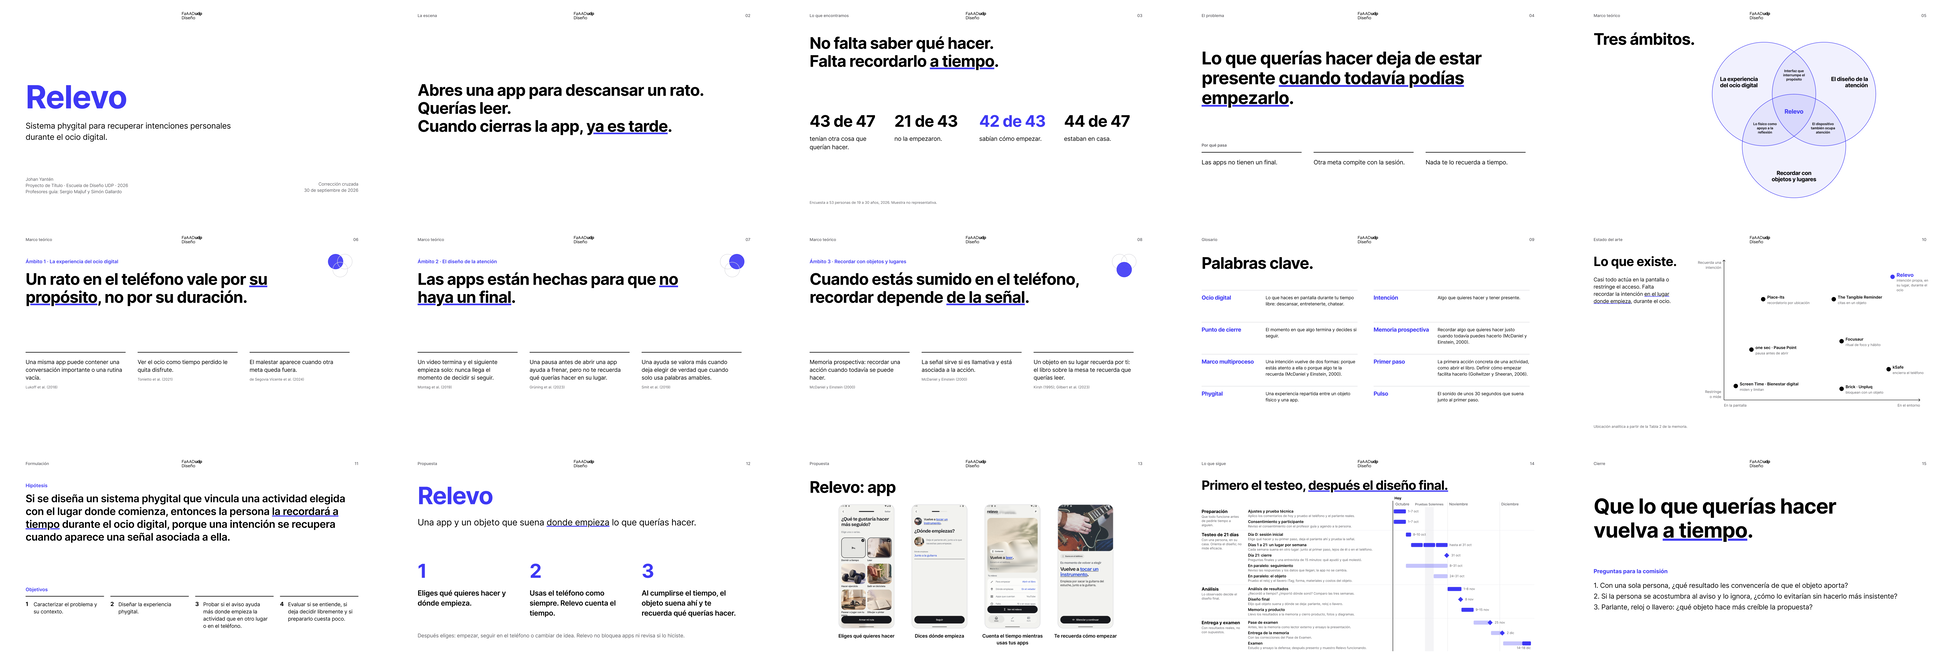
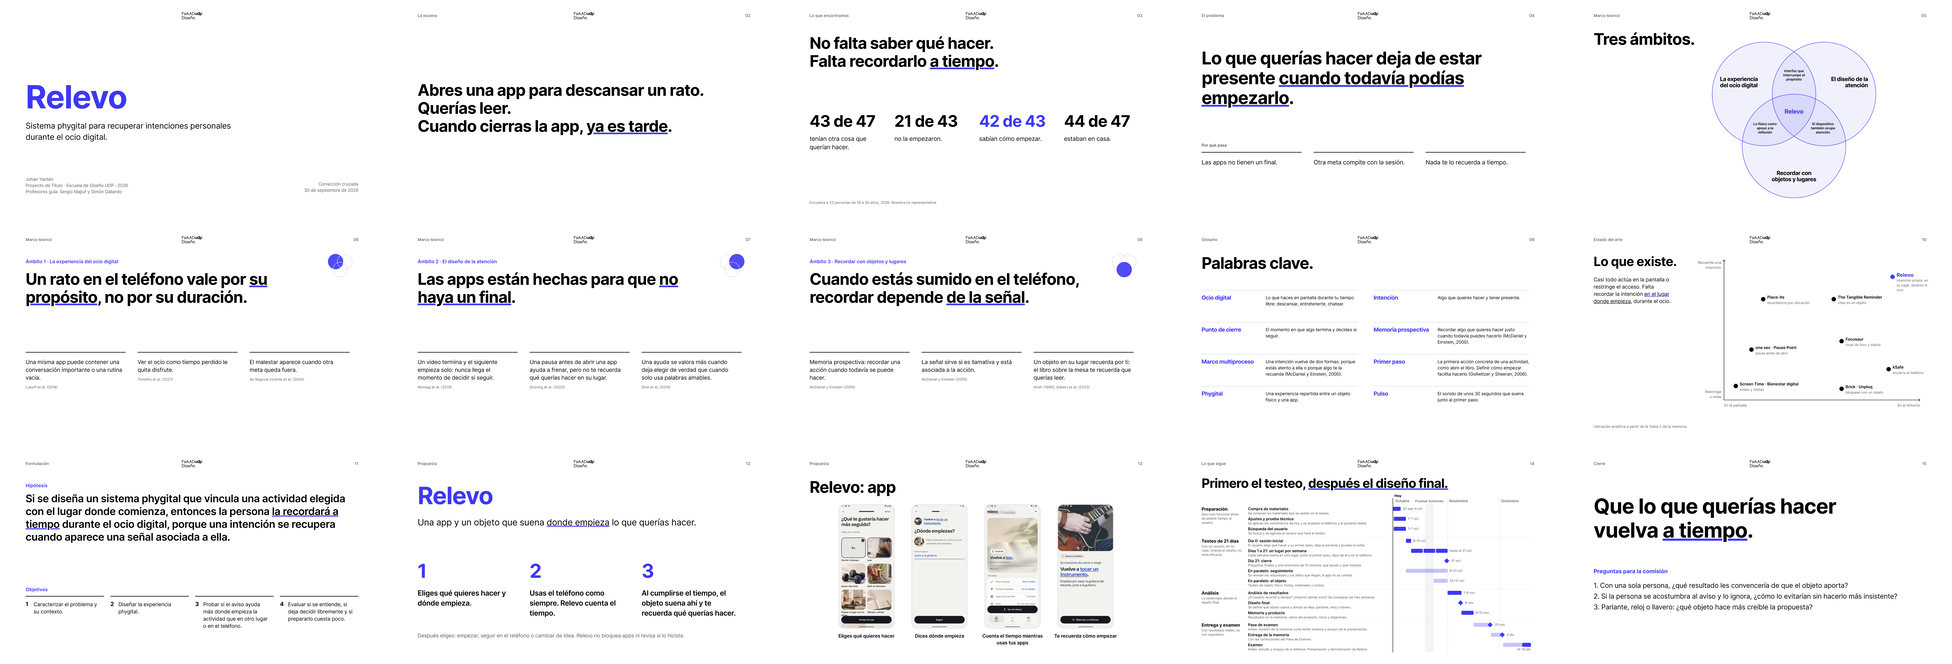
Diapositiva 14 en tercera persona y con la compra de materiales
- Los textos de la carta Gantt pasan a tercera persona («El usuario
  elige…», «Se aplican…»).
- Se suma la compra de los materiales del testeo (30 de septiembre al
  4 de octubre) y se quita la revisión del consentimiento.
- El objeto en paralelo usa las palabras del autor: «Testeo de objeto
  físico; forma, materiales y costos».
- Imagen, hoja de contacto, documento 24, registro de pedidos y
  trazabilidad al día.

Changed region(s): [[0.5938, 0.7229, 0.75, 0.994], [0.75, 0.9036, 0.7812, 0.9639]]

diff --git a/00_gobernanza/trazabilidad-uso-ia-2026-09-23.md b/00_gobernanza/trazabilidad-uso-ia-2026-09-23.md
@@ -25,7 +25,7 @@ Esta formulación se apoya en la [declaración histórica de IA de la memoria v1
 | GIF de la app 2.10 del 27 de septiembre | Claude Code respaldó los datos del autor en el emulador, preparó sin red un relevo ficticio («Leer 10 páginas»), grabó la pantalla con adb, unió dos tomas con ffmpeg, restauró los datos y documentó. | El autor pidió el GIF para la diapositiva «Cómo funciona». | Es una recreación en emulador: la señal viene de un relevo de prueba de 15 s y suena en el teléfono porque no hay parlante. |
 | Android 2.11 del 28 de septiembre | Claude Code revisó el registro y el envío de datos de la 2.10 y la base de Supabase; encontró que las respuestas nunca habían llegado a la base. Programó «Cómo funciona», adaptó el video a vertical, agregó la copia en el teléfono y dos columnas, aplicó en Supabase la migración y las vistas de análisis, probó en emulador con conexión y sin ella, borró los datos de prueba y documentó. | El autor pidió revisar la app, dejarla lista para el primer testeo, explicar su uso la primera vez, incluir el video en vertical y guardar todo en la base y en el teléfono. Registrado como D-086; los textos, el formato de la copia y las vistas son propuestas de la herramienta. | Sin teléfono real, parlante Bluetooth ni personas. |
 | Objetos que suenan y Android 2.15, 29 de septiembre | Claude Code investigó objetos baratos en Chile que Relevo pudiera hacer sonar: el llavero iTag, la placa ESP32 y el reloj con Wear Engine. Verificó en el código de una app Android de código abierto cómo se hace sonar el iTag. Implementó la salida experimental «El reloj», que envía el tono como audio de llamada, con una prueba unitaria y la migración de Supabase. | El autor propuso usar la forma ya fabricada de su reloj como objeto y pidió probar el sonido como llamada. También pidió descargar y revisar el APK oficial del iTag; se prefirió código abierto verificable antes que un APK de un sitio espejo (D-093). | No se probó con el reloj ni con un iTag reales. |
-| Presentación completa y encuesta, 29 de septiembre | Claude Code revisó las presentaciones del examen de julio de otros estudiantes, creó un archivo nuevo de Figma Slides y diseñó 18 diapositivas con diagramas (árbol de problemas, Venn, marco multiproceso, mapa de referentes, sistema, línea de la prueba y carta Gantt), gráficos de la encuesta, capturas de la app y notas del orador. Analizó la encuesta de 53 respuestas con recuentos y una codificación verificada por script, la documentó y la incorporó a la memoria. Después corrigió los textos según las notas del autor, recuperó el mapa de referentes, agregó las intersecciones del Venn, aplicó los títulos simples de los ámbitos, exportó las 15 diapositivas principales y documentó el proceso en el [documento 24](../10_recursos_visuales/24_presentacion-correccion-cruzada-2026-09-30.md). Por último, rehízo la diapositiva 14 como carta Gantt de lo que sigue hasta el examen, con las fechas del plan de cierre. | El autor pidió «la presentación lo más completa posible, no solo texto» y usar la encuesta en la memoria. Ante dudas sobre el origen, confirmó que las respuestas son reales pero editadas y que el formulario informaba el uso académico anónimo (D-092). Después pidió simplificar a 5 minutos, «al nivel de las keynote de Apple», con resultados en vez de métodos, un detalle de cada ámbito, un glosario y capturas del producto; Claude Code dejó 14 diapositivas principales y movió el detalle a una sección de respaldo. Luego el autor editó el archivo a mano, dejó notas dentro de los textos y pidió corregirlas, recuperar el mapa comparativo con el mercado, agregar las intersecciones del Venn con los títulos de la memoria y de su examen de julio, y títulos más simples para los ámbitos (D-094). Al final pidió cambiar «Siguiente paso» por lo que sigue en las próximas semanas y meses, «bien explicado y con sentido», y ordenarlo con el formato de la carta Gantt del respaldo; después, textos más claros y el detalle de cada tarea. | La codificación de la encuesta y las notas del orador no se revisaron con el autor. La fecha y la convocatoria de la encuesta no están registradas. La presentación no se ha ensayado. |
+| Presentación completa y encuesta, 29 de septiembre | Claude Code revisó las presentaciones del examen de julio de otros estudiantes, creó un archivo nuevo de Figma Slides y diseñó 18 diapositivas con diagramas (árbol de problemas, Venn, marco multiproceso, mapa de referentes, sistema, línea de la prueba y carta Gantt), gráficos de la encuesta, capturas de la app y notas del orador. Analizó la encuesta de 53 respuestas con recuentos y una codificación verificada por script, la documentó y la incorporó a la memoria. Después corrigió los textos según las notas del autor, recuperó el mapa de referentes, agregó las intersecciones del Venn, aplicó los títulos simples de los ámbitos, exportó las 15 diapositivas principales y documentó el proceso en el [documento 24](../10_recursos_visuales/24_presentacion-correccion-cruzada-2026-09-30.md). Por último, rehízo la diapositiva 14 como carta Gantt de lo que sigue hasta el examen, con las fechas del plan de cierre. | El autor pidió «la presentación lo más completa posible, no solo texto» y usar la encuesta en la memoria. Ante dudas sobre el origen, confirmó que las respuestas son reales pero editadas y que el formulario informaba el uso académico anónimo (D-092). Después pidió simplificar a 5 minutos, «al nivel de las keynote de Apple», con resultados en vez de métodos, un detalle de cada ámbito, un glosario y capturas del producto; Claude Code dejó 14 diapositivas principales y movió el detalle a una sección de respaldo. Luego el autor editó el archivo a mano, dejó notas dentro de los textos y pidió corregirlas, recuperar el mapa comparativo con el mercado, agregar las intersecciones del Venn con los títulos de la memoria y de su examen de julio, y títulos más simples para los ámbitos (D-094). Al final pidió cambiar «Siguiente paso» por lo que sigue en las próximas semanas y meses, «bien explicado y con sentido», y ordenarlo con el formato de la carta Gantt del respaldo; después, textos más claros y en tercera persona, el detalle de cada tarea, la compra de materiales de esta semana y sin la revisión del consentimiento. | La codificación de la encuesta y las notas del orador no se revisaron con el autor. La fecha y la convocatoria de la encuesta no están registradas. La presentación no se ha ensayado. |
 | Diapositivas e hipótesis, 29 de septiembre | Claude Code diseñó en Figma las diapositivas de la corrección cruzada en dos variantes y las rehízo con el estilo del autor. Después leyó la memoria, las decisiones y el protocolo 02, propuso tres hipótesis y actualizó la elegida en todo el proyecto. | El autor pidió su estilo de diseño y una hipótesis más simple, que dijera en qué se basa la app y no su resultado: «La hipótesis no debe ser el resultado de la app, debe ser en lo que la app se basa». Eligió primero una versión en dos frases; luego señaló que «eso no es una hipótesis», pidió mirar las anteriores y eligió una formulación «si…, entonces…». Después aportó las presentaciones del examen de julio y pidió revisar los encargos; con esas reglas eligió una versión «si se diseña…, entonces…, porque…», que luego pidió simplificar y hacer teórica: «que la hipótesis no responda a lo que hace el proyecto, sino a lo teórico». Con el feedback del pase y del examen de julio eligió una versión teórica; luego pidió revisar si el marco exige el lugar y aprobó un «porque» basado en la memoria prospectiva y el marco multiproceso de McDaniel y Einstein (2000), que Claude Code incorporó a la memoria junto con una revisión completa del texto, los datos del prototipo y las citas APA 7 en español (D-091). | La hipótesis sigue sin contrastarse. Las notas del orador de las diapositivas no se revisaron con el autor. |
 | Android 2.14 y registro de pedidos, 29 de septiembre | Claude Code reescribió las frases poco naturales, agrandó el video, rehízo la guía con contexto y el primer relevo acompañado, corrigió el defecto de la 2.10, probó en emulador y creó el registro de pedidos del autor. | El autor pidió frases más naturales, un video más grande, una guía con contexto que deje hacer el primer relevo, la app lista para el testeo real y la auditoría de sus pedidos. Registrado como D-090. | Sin teléfono real ni personas. |
 | Android 2.13 y coherencia con la memoria, 29 de septiembre | Claude Code leyó la memoria (secciones 6, 7, 9, 10 y 11) y el corpus P1–P8; señaló dos contradicciones (el nombre en la base y el aviso semanal encendido) y preguntó al autor; programó la guía, los intereses de las entrevistas, la tabla aparte del nombre, el resumen del relevo activo y el registro de la guía; rehízo el audio del video; probó en emulador y escribió la revisión de coherencia. | El autor pidió actividades concretas, guardar el nombre, una guía de cada cosa, revisar el audio, un resumen en Inicio y avisarle de toda contradicción con la memoria. Decidió guardar el nombre y preguntar por el aviso semanal. Registrado como D-088 y D-089. | Sin teléfono real ni personas; la memoria aún no se actualiza. |
@@ -156,7 +156,7 @@ No introducir transcripciones identificables de P1–P8, hojas firmadas, claves 
 
 ### 2026-09-30 — Textos de la diapositiva 14
 
-- **Qué cambió:** la fila de la presentación suma el pedido de textos más claros y de un detalle por tarea en la carta Gantt.
+- **Qué cambió:** la fila de la presentación suma los pedidos de textos más claros y en tercera persona, un detalle por tarea y la compra de materiales en la carta Gantt.
 - **Cómo estaba antes:** terminaba en el formato de carta Gantt.
 - **Por qué:** mantener trazable qué hizo la IA y qué decidió el autor.
 

diff --git a/10_recursos_visuales/24_presentacion-correccion-cruzada-2026-09-30.md b/10_recursos_visuales/24_presentacion-correccion-cruzada-2026-09-30.md
@@ -24,7 +24,7 @@
 | 11 | Hipótesis y objetivos | La hipótesis literal de la memoria (D-091) y los cuatro objetivos en palabras simples. | Capítulo 10. |
 | 12 | Relevo | Qué es y tres pasos. | Capítulos 10 y 11. |
 | 13 | La app | Cuatro capturas del producto: elegir qué hacer, decir dónde empieza, el relevo que cuenta y el aviso. | Capturas de Android 2.10 y 2.13. |
-| 14 | Lo que sigue | «Primero el testeo, después el diseño final.» Carta Gantt desde hoy hasta el examen, con el formato de la del respaldo: 13 tareas con sus fechas y una línea de detalle, en cuatro etapas (preparación, testeo de 21 días, análisis, y entrega y examen), cada una con su para qué. Muestra lo que se hace en paralelo al testeo y la semana de Pruebas Solemnes. | [Plan de cierre](../00_gobernanza/plan-de-cierre-agosto-diciembre-2026.md) y [protocolo 02](../07_validacion/protocolo-02-prueba-21-dias.md). |
+| 14 | Lo que sigue | «Primero el testeo, después el diseño final.» Carta Gantt desde hoy hasta el examen, con el formato de la del respaldo: 14 tareas con sus fechas y una línea de detalle en tercera persona, en cuatro etapas (preparación, testeo de 21 días, análisis, y entrega y examen), cada una con su para qué. Muestra lo que se hace en paralelo al testeo y la semana de Pruebas Solemnes. | [Plan de cierre](../00_gobernanza/plan-de-cierre-agosto-diciembre-2026.md) y [protocolo 02](../07_validacion/protocolo-02-prueba-21-dias.md). |
 | 15 | Cierre | «Que lo que querías hacer vuelva a tiempo.» y tres preguntas a la comisión sobre los puntos débiles. | — |
 
 **Respaldo (se omite al presentar):** árbol de problemas, marco multiproceso, entrevistas, dos diapositivas de gráficos de la encuesta, criterios de diseño, versiones detalladas de hipótesis, funcionamiento y prueba, qué se registra en la prueba (la diapositiva 14 anterior), carta Gantt y referencias en APA 7. Sirven para responder preguntas.
@@ -44,7 +44,7 @@
 4. **Notas del autor.** El autor dejó comentarios dentro de los textos («*Claude por favor reescribe…»). Se reescribieron los puntos de los ámbitos 2 y 3, el glosario (con fuentes), los objetivos, los pasos de Relevo y las preguntas a la comisión. «Siguiente paso» sumó qué se registra en la prueba, y el mapa de referentes volvió al flujo principal.
 5. **Venn.** Se recuperaron las intersecciones. Tras contrastar con la memoria y con el examen de julio, los círculos usan los títulos simples del capítulo 6 (D-094) y las intersecciones son las del autor: «Interfaz que interrumpe el propósito», «Lo físico como apoyo a la reflexión» y «El dispositivo también ocupa atención».
 6. **Cambios a mano del autor, que se conservan:** «sumido en el teléfono» en el ámbito 3, «Relevo: app» en la diapositiva 13, la leyenda «Cuenta el tiempo mientras usas tus apps» y el logo de la Facultad.
-7. **Lo que sigue.** El autor pidió reemplazar «Siguiente paso», que explicaba la prueba, por lo que sigue en las próximas semanas y meses, bien explicado y con sentido. La diapositiva 14 muestra cuatro etapas con las fechas del plan de cierre y el para qué de cada una. La versión anterior quedó en el respaldo como R10. Después, el autor hizo visible la carta Gantt del respaldo (R11) y pidió la diapositiva 14 bien ordenada y desglosada con ese formato: ahora es una carta Gantt de lo que sigue, con una fila por tarea y la línea «Hoy». La R11 volvió a omitirse al presentar. Por último, el autor pidió textos más claros: la etapa es el testeo de 21 días con el usuario, hay que mostrar qué más se hace en ese tiempo y el detalle de cada tarea, y «Lugar y objeto decididos» no decía nada. Cada tarea tiene ahora una línea de detalle, y el hito del 8 de noviembre dice qué se decide: qué objeto suena y dónde se deja.
+7. **Lo que sigue.** El autor pidió reemplazar «Siguiente paso», que explicaba la prueba, por lo que sigue en las próximas semanas y meses, bien explicado y con sentido. La diapositiva 14 muestra cuatro etapas con las fechas del plan de cierre y el para qué de cada una. La versión anterior quedó en el respaldo como R10. Después, el autor hizo visible la carta Gantt del respaldo (R11) y pidió la diapositiva 14 bien ordenada y desglosada con ese formato: ahora es una carta Gantt de lo que sigue, con una fila por tarea y la línea «Hoy». La R11 volvió a omitirse al presentar. Por último, el autor pidió textos más claros: la etapa es el testeo de 21 días con el usuario, hay que mostrar qué más se hace en ese tiempo y el detalle de cada tarea, y «Lugar y objeto decididos» no decía nada. Cada tarea tiene ahora una línea de detalle, y el hito del 8 de noviembre dice qué se decide: qué objeto suena y dónde se deja. Después pidió los textos en tercera persona («El usuario elige…»), la compra de los materiales del testeo, que hace esta semana, y quitar la revisión del consentimiento. El objeto en paralelo se describe con sus palabras: «Testeo de objeto físico; forma, materiales y costos».
 
 **Herramientas.** La presentación se construyó con Claude Code mediante el conector de Figma: guiones de la API de complementos de Figma para crear formas, textos, diagramas, notas del orador y secciones, y para marcar el respaldo como omitido. Las capturas de la app se subieron desde el repositorio. Cada tanda se revisó con imágenes y con un control de que ningún elemento saliera de los márgenes.
 
@@ -55,6 +55,12 @@
 - Si se adopta el reloj o el llavero como objeto (D-093), la diapositiva 12 y el cierre deben decir cuál.
 
 ## Registro de cambios (disclaimer)
+
+### 2026-09-30 — Diapositiva 14 en tercera persona
+
+- **Qué cambió:** los textos de la carta Gantt pasan a tercera persona; se suma la compra de materiales (30 de septiembre al 4 de octubre); se quita la revisión del consentimiento; el objeto en paralelo usa las palabras del autor. Se actualizaron su imagen, la hoja de contacto, la tabla y el proceso.
+- **Cómo estaba antes:** los detalles estaban en primera persona («Aplico…», «Pruebo el reloj y el llavero…») y la preparación incluía revisar el consentimiento.
+- **Por qué:** pedido del autor.
 
 ### 2026-09-30 — Diapositiva 14: textos y detalles
 

diff --git a/00_gobernanza/registro-de-pedidos-a-la-ia.md b/00_gobernanza/registro-de-pedidos-a-la-ia.md
@@ -68,6 +68,7 @@
 | 29 sep. | Corrección | Reescribir la diapositiva «Siguiente paso», que no le convence: mostrar lo que sigue en las próximas semanas y meses, bien explicado y con sentido. | Diapositiva 14, «Probar antes de decidir.»: cuatro etapas (preparar, probar, decidir y defender) con las fechas del plan de cierre, qué se hace y para qué. La versión anterior quedó en el respaldo como R10 | — |
 | 29 sep. | Corrección | Ordenar y desglosar mejor la diapositiva 14 con el formato de la carta Gantt del respaldo, que el autor hizo visible como referencia. | Diapositiva 14 rehecha como carta Gantt desde hoy hasta el examen: 13 tareas con sus fechas, agrupadas en preparar, probar, decidir y defender, con el para qué de cada etapa. La carta Gantt de referencia volvió a omitirse al presentar | — |
 | 30 sep. | Corrección | Cambiar los textos de la carta Gantt: «Probar» es en realidad el testeo de 21 días con el usuario; mostrar qué más se hará en ese tiempo y los detalles de cada tarea, no solo el hecho; «Lugar y objeto decididos» no dice nada. | Título «Primero el testeo, después el diseño final.»; etapas «Preparación», «Testeo de 21 días», «Análisis» y «Entrega y examen»; una línea de detalle por tarea; seguimiento y objeto en paralelo al testeo; semana de Pruebas Solemnes marcada; hito «Diseño final: qué objeto suena y dónde se deja» | — |
+| 30 sep. | Información y corrección | Informar que esta semana compra los materiales del testeo. Pedir los textos en tercera persona («el usuario elige…»), cambiar «pruebo el reloj y el llavero» por «Testeo de objeto físico; forma, materiales y costos» y quitar «reviso el consentimiento». | Diapositiva 14 con la compra de materiales (30 de septiembre al 4 de octubre), textos en tercera persona, el objeto con las palabras del autor y sin la revisión del consentimiento | — |
 
 ## Lo que muestra el registro
 
@@ -81,7 +82,7 @@ Los pedidos anteriores al 23 de septiembre están en el «Registro de prompts ex
 
 ### 2026-09-30 — Textos de la carta Gantt
 
-- **Qué cambió:** se registró la corrección de los textos y los detalles de la diapositiva 14.
+- **Qué cambió:** se registraron la corrección de los textos y los detalles de la diapositiva 14, el paso a tercera persona y la compra de materiales de esta semana.
 - **Cómo estaba antes:** el registro terminaba en la carta Gantt del 29 de septiembre.
 - **Por qué:** regla de registrar cada pedido del autor el mismo día.
 
